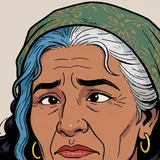
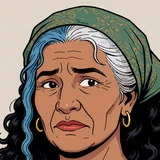
Maudie's worried face redrawn (not cross-eyed); Hesta's landing still closer, with a wide crater
Claude-Session: https://claude.ai/code/session_01JTmPYBGE5RJi7qTbK5Qior

diff --git a/CREDITS.md b/CREDITS.md
@@ -15,7 +15,7 @@ subscription-only billing so no Spark was spent. Sources are in the project file
 | faces/&lt;who&gt;-&lt;mood&gt;.webp (story portraits: Hesta 3 moods, Lumi 6, Rook 4, Nell 6, Sefa 7, Kes 5; Kes's are drafts from the cast art thread, `sogni/lanternfall/production/kes/game/`, 2026-11-24) | Mood faces (Lumi's calling, grudging and delighted redrawn closed-mouth on 2026-11-23) from the cast art thread (project files `sogni/lanternfall/production/<who>/face-*.png`, 2026-11-23), resized to 160 px WebP |
 | stills/r8-{1,2,7,10,11a,11b}.webp (run 8's reaction stills: Tilda steady, Tilda and Rook at the far well, Rook asking for Granny (redrawn the same day, more concerned, at Ladi's word), the count book, Tilda asking, Rook with no answer) | Drafts drawn by the gameplay thread with krea2_identity_edit_v1_2 on Sogni, 2026-11-24, on Ladi's plan, 0 Spark (project files `gameplay/stills/run8/`), 1024 by 768 as delivered. | The stills panel over the Sieve (`src/engine/stills.ts`) |
 | stills/r8-5.webp, stills/r8-6.webp (run 8's reaction stills at the tug: Tilda lost with Rook uneasy behind her; Tilda watching, Rook looking down) | Drawn by the cutscene thread on Sogni, 2026-11-24, on Ladi's plan; Ladi approved them at 10:44 AM ("Faces look good"). Every step with krea2_identity_edit_v1_2 on the subscription, 0 Spark, as that thread confirmed from its render logs (Tilda alone, Rook added behind her, the face changes on head crops), from the project's own persona sheets lf-tilda and lf-rook-high-grounds; the face transplants, Tilda's chalk smudge and Rook's enlarging are its own script and hand work, no model (sources `sogni/lanternfall/production/story/run8-stills/s5-closer.png` and `s6-closer.png`; delivered in project files `gameplay/stills/run8/`), 1024 by 768 as delivered | The stills panel over the Sieve: 5 as the tug takes hold, 6 cross-fading over it when the tug ends |
-| stills/r6-land-{1,2,3}.webp (run 6's landing pictures: the crowd looking up with Lumi in front, the comet over the island, Hesta landing in the glass) | Drafts drawn by the gameplay thread on Sogni, 2026-11-24, on Ladi's plan, 0 Spark, all with krea2_identity_edit_v1_2; picture 2 redrawn the same day from the game's own island; picture 3 redrawn on 2026-11-25 by the cutscene thread on Ladi's notes, Hesta alone on the Kindling ground drawn from the game's own map and to scale (`r6-land-3-scale`, 0 Spark, not seen by Ladi yet) (project files `gameplay/stills/run6/`), 1024 by 768 as delivered | The held pictures of the landing between runs 6 and 7; picture 2 shows only with `?stillsonly`, since the comet now falls on the map |
+| stills/r6-land-{1,2,3}.webp (run 6's landing pictures: the crowd looking up with Lumi in front, the comet over the island, Hesta landing in the glass) | Drafts drawn by the gameplay thread on Sogni, 2026-11-24, on Ladi's plan, 0 Spark, all with krea2_identity_edit_v1_2; picture 2 redrawn the same day from the game's own island; picture 3 redrawn on 2026-11-25 by the cutscene thread on Ladi's notes, Hesta alone on the Kindling ground drawn from the game's own map, close, with a wide crater (`r6-land-3-big`, 0 Spark, not seen by Ladi yet) (project files `gameplay/stills/run6/`), 1024 by 768 as delivered | The held pictures of the landing between runs 6 and 7; picture 2 shows only with `?stillsonly`, since the comet now falls on the map |
 | stills/alarm/**/*.webp (the alarm before run 6 as moving layers: the kitchen with its lamp and three cups apart; the falls (redrawn 2026-11-25 by the cutscene thread from the game's own map with Maudie, Orrin and Moth from their personas, `alarm2-falls-map`, on Ladi's note, not seen by Ladi yet); the Kindling ground close with its fire strong, low, in embers and out, drawn from the game's own story/kindling-ring.webp; and in shot4/ the island going down: sky, five layers of cloud, the island cut out with its heart bright and dim, a strip of waterfall, four rocks), stills/r6-alarm-5.webp (Lumi at the door, worried) and stills/r7-end-1.webp (the island clear of the cloud; redrawn 2026-11-25 by the cutscene thread over a capture of the game's own island, `r7-end-1-map`, on Ladi's note, 0 Spark as that thread reports, not seen by Ladi yet) | Drafts drawn by the gameplay thread on Sogni, 2026-11-24, on Ladi's plan, 0 Spark, with krea2_identity_edit_v1_2, the island drawn from the game's own (project files `gameplay/stills/run6/` and `gameplay/stills/run6/alarm-layers/`); the layers turned from PNG to WebP here, same sizes | The alarm's five shots before run 6 (`?noalarm` leaves them out) and the picture at the end of run 7. The alarm's sparks are drawn in the page, and its sounds (bell, timbers, falls, far-off voices, the low roll, rock breaking) are made in the page, no files |
 | stills/alarm/shot4/{island-dim,island-bright,waterfall-strip,debris-1..4}.webp (the alarm's last shot, redrawn so the houses, the landing with its skiff and the lake sit where they are on the map, with the falls down the near face) | Redrawn by the gameplay thread on Sogni, 2026-11-24, straight over a capture of the game's own home island made here (project files `build/home-island-horseshoe/whole/2-day-side.png`); Ladi approved the shot at 11:30 AM ("Shot 4 Descent looks good", draft 5). Model and cost as that thread's other alarm layers (the row above); turned from PNG to WebP here, same sizes; on 2026-11-25 the cutscene thread painted the five small figures out of island-dim and island-bright at Ladi's request (the shot is too wide for people), same size and alpha (`production/story/run6-stills/layers4/nopeople/`) | The island going down, the last shot of the alarm before run 6 |
 | models/rook.glb, lumi.glb, hesta.glb, wick.glb, moth.glb, nell.glb, sefa.glb (story characters) | The cast art thread's rigged and animated models (`production/<who>/<who>-rigged.glb`, 2026-11-23: idle, walk, run, pull, push clips), shipped as delivered (quantised, no meshopt): 570 to 815 KB each |
@@ -32,6 +32,7 @@ subscription-only billing so no Spark was spent. Sources are in the project file
 | faces/kes-{alarmed,bereft}.webp, faces/grandmother-{steady,soft,talking}.webp, faces/grandfather-neutral.webp (run 9) | Bubble faces from the cast art thread (project files `sogni/lanternfall/production/bubble-faces/`, 2026-11-24), 160 px WebP as delivered. Placeholders: the grandparents' look is a first draft Ladi has not approved, and Kes's two are being re-framed | Bark bubbles and the talk box in run 9; which face goes with which line is in `src/engine/moods.ts` |
 | models/low-house-{a,b,c}.glb, models/rescue-boat.glb, models/kes-drop.glb, models/cold-brazier.glb (run 9) | Draft 1 from the maps thread (project files `sogni/lanternfall/production/places/low-one/`, 2026-11-25): concepts by Sogni AI z_image_turbo_bf16, 3D by Sogni AI pixal3d_int8_i23d, slimmed and re-baked there; the boat's lamp post is procedural | The low one in run 9, in place of the block-outs (`src/client/rescue-dress.ts`) |
 | faces/lumi-delight-flash.webp | First draft from the cast art thread; Lumi's one open-mouth face in runs 1 and 2 |
+| faces/maudie-{neutral,fond,talking,worried}.webp | Bubble faces from the cast art thread (`sogni/lanternfall/production/bubble-faces/`, 2026-11-25), 160 px WebP; the worried one redrawn as `maudie-worried-2` on Ladi's note that the first looked cross-eyed. Same Sogni pipeline and caveats as the other bubble faces | Maudie's lines in the walks |
 | faces/tilda-{neutral,tired,lost,asking,watching}.webp (Tilda's five faces for run 8) | Cut by the gameplay thread on 2026-11-24 from her approved sheet (the cast thread's approved board, option A), no new render (project files `gameplay/faces/`), 160 px WebP as delivered | Her bark bubbles and talk box in run 8, on Ladi's word ("Tilda needs her face in her bark bubbles"); which face goes with which line is the gameplay thread's mapping (`src/engine/moods.ts`) |
 | models/rook-house.glb (4x4, Granny's board) and rook-house-big.glb (9x9, the walking island) | Concept from z_image_turbo_bf16, then pixal3d_int8_i23d (image to 3D), 2026-11-23, Sogni Unlimited plan, 0 Spark. Levelled, slimmed to 25k triangles and paint re-baked by the maps and places thread (project files sogni/lanternfall/production/places/rook-house/, rook-house-a.glb and rook-house-a-9x9-hd.glb; Ladi picked A). The 9x9 walking-island copy: concept upscaled with rtx_vsr_pro, then pixal3d_int8_i23d at shape 1536 / texture 4096, 0 Spark |
 
